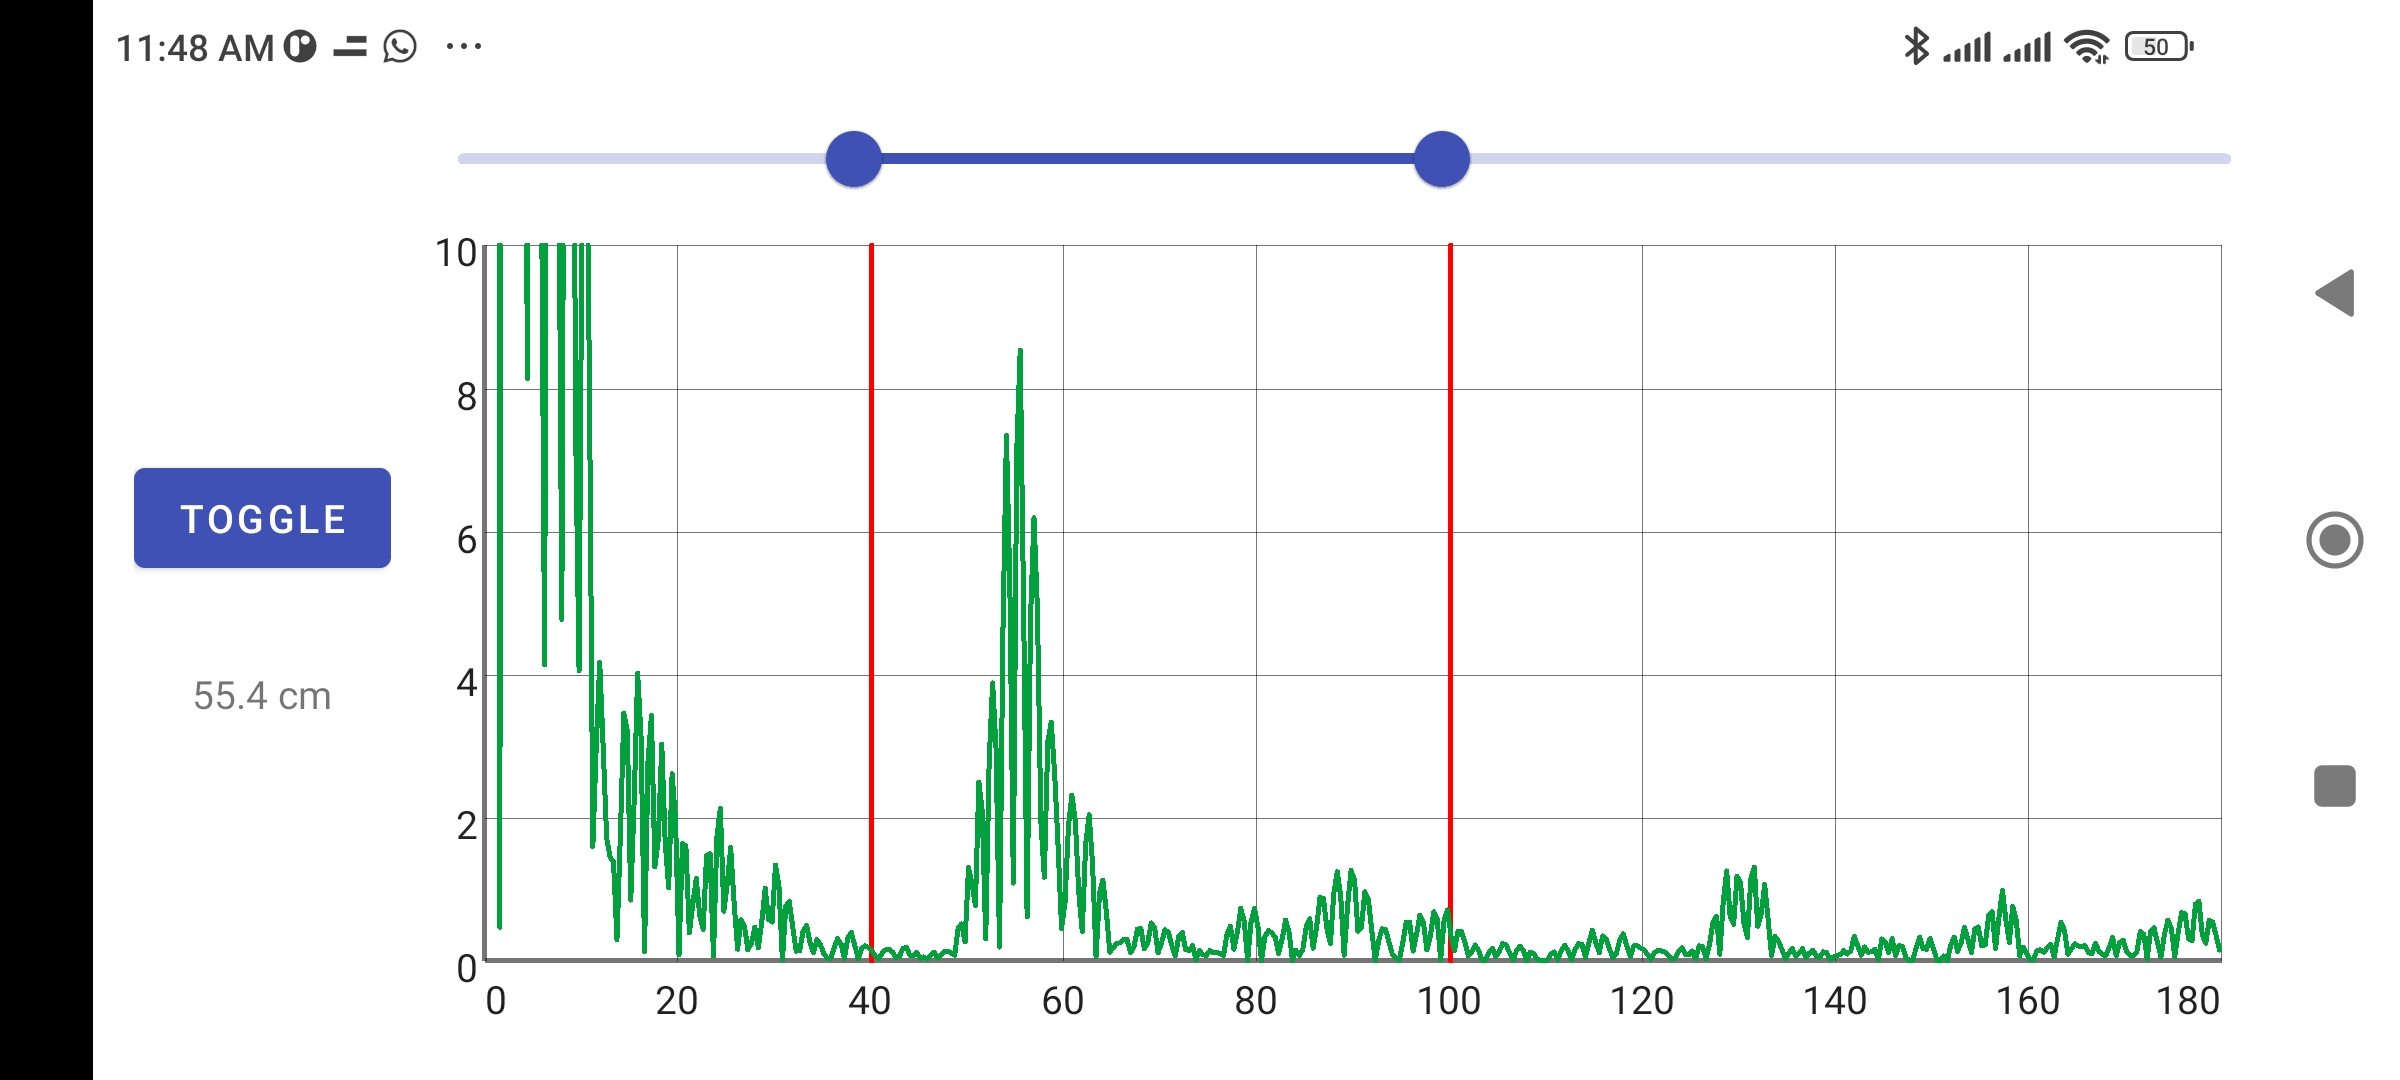
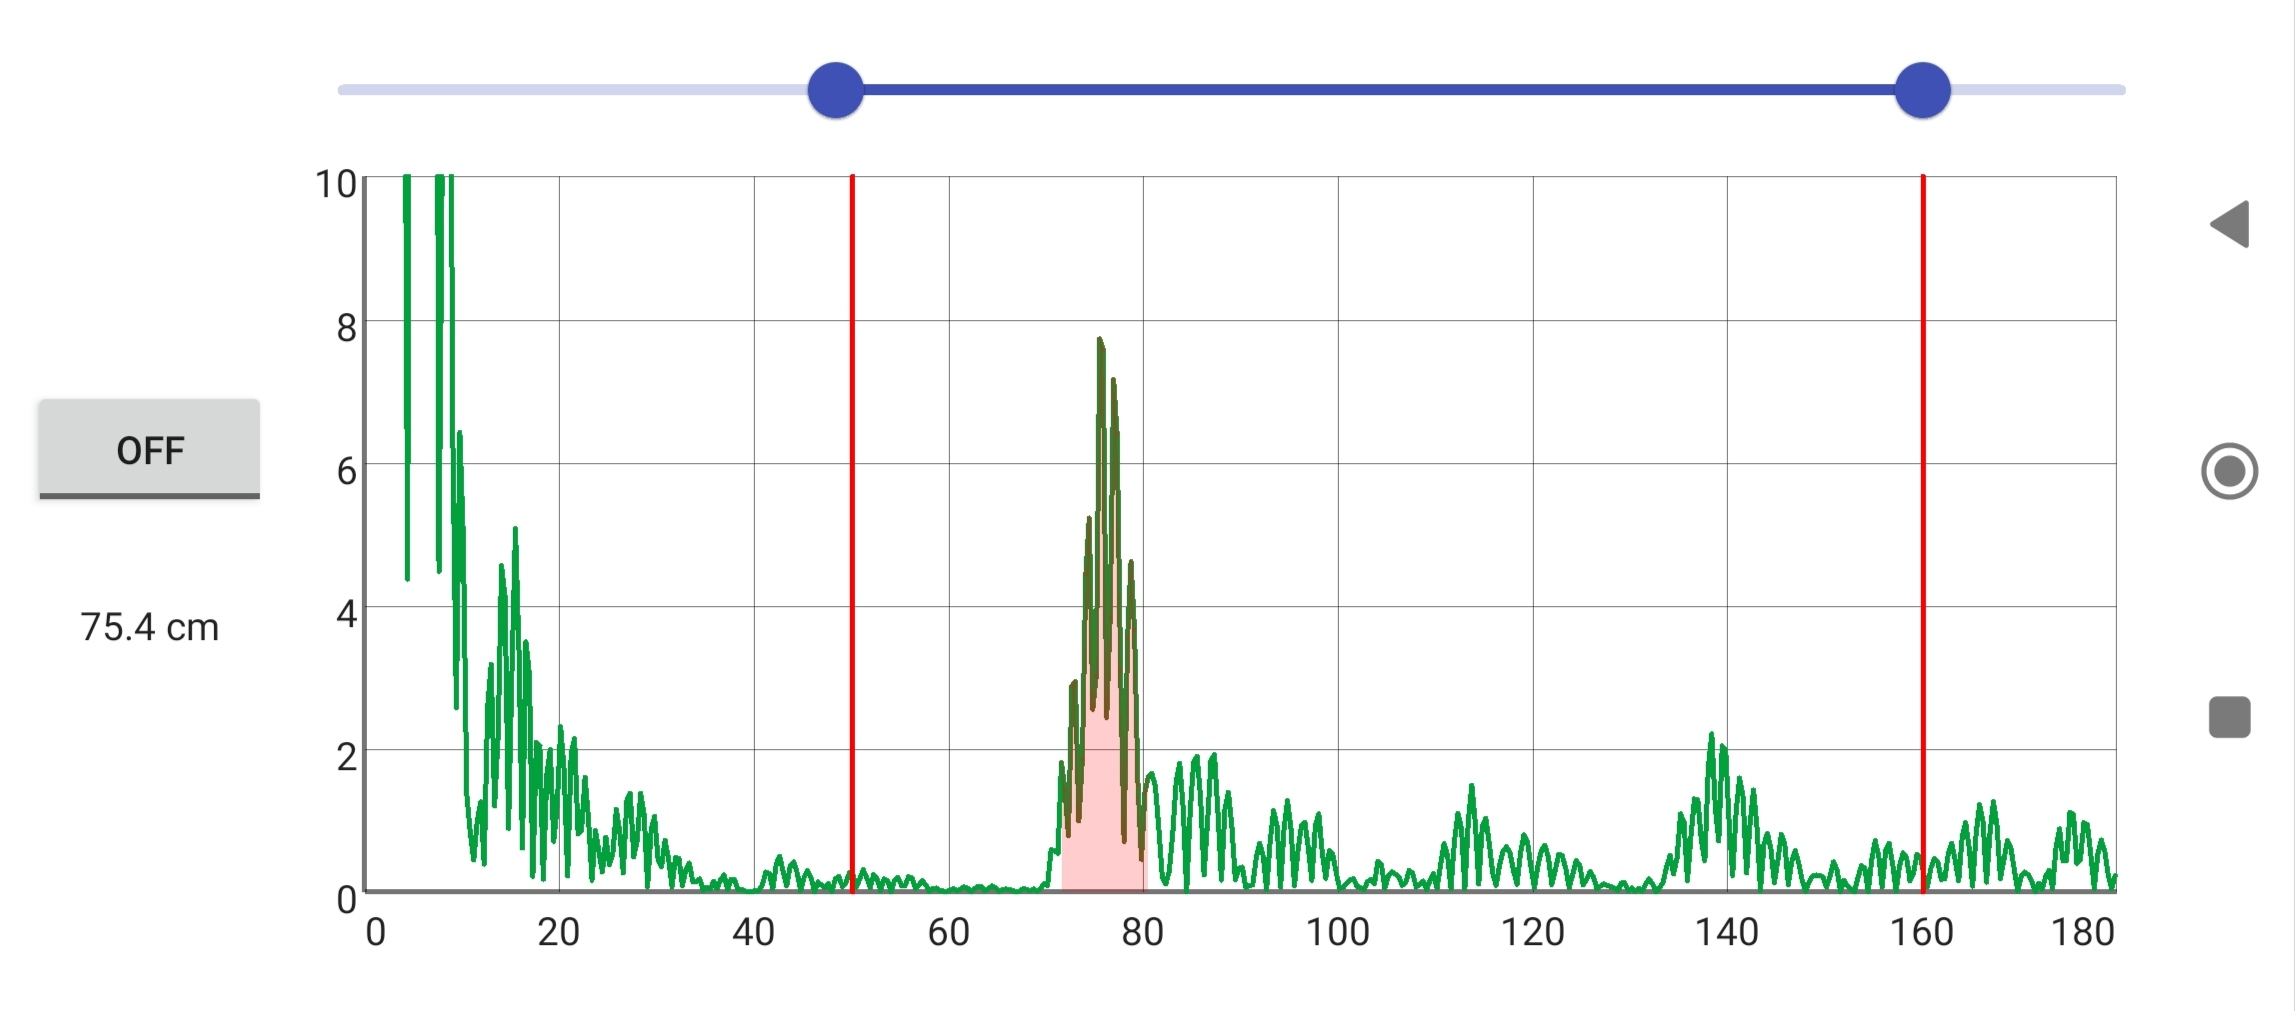
Update demo.jpg + minor changes

diff --git a/app/src/main/java/com/example/sonar10/MainActivity.java b/app/src/main/java/com/example/sonar10/MainActivity.java
@@ -7,6 +7,7 @@ import android.os.Bundle;
 
 import androidx.annotation.NonNull;
 import androidx.appcompat.app.AppCompatActivity;
+import androidx.appcompat.widget.AppCompatToggleButton;
 import androidx.core.app.ActivityCompat;
 import androidx.core.content.ContextCompat;
 
@@ -14,18 +15,23 @@ import android.os.Handler;
 import android.util.Log;
 import android.view.View;
 import android.widget.Button;
+import android.widget.CompoundButton;
 import android.widget.TextView;
 import android.widget.Toast;
+import android.widget.ToggleButton;
 
 import com.google.android.material.slider.RangeSlider;
 import com.jjoe64.graphview.GraphView;
+import com.jjoe64.graphview.series.BaseSeries;
 import com.jjoe64.graphview.series.DataPoint;
 import com.jjoe64.graphview.series.LineGraphSeries;
+import com.jjoe64.graphview.series.Series;
 
 import org.apache.commons.lang3.tuple.ImmutablePair;
 import org.apache.commons.math3.stat.StatUtils;
 
 import java.util.ArrayList;
+import java.util.Arrays;
 import java.util.List;
 import java.util.Locale;
 import java.util.concurrent.locks.Lock;
@@ -42,18 +48,23 @@ public class MainActivity extends AppCompatActivity {
     private final LineGraphSeries<DataPoint> mSeries = new LineGraphSeries<>();
     private final LineGraphSeries<DataPoint> mThumbSeries1 = new LineGraphSeries<>();
     private final LineGraphSeries<DataPoint> mThumbSeries2 = new LineGraphSeries<>();
+    private final LineGraphSeries<DataPoint> mAreaSeries = new LineGraphSeries<>();
     private final Lock mLock = new ReentrantLock();
     private final Handler mHandler = new Handler();
     private boolean mShouldRepeat = false;
     private RangeSlider mSlider;
     private TextView mDistanceView;
-    private Button mToggleButton;
     private DataPoint[] mDataPoints;
 
     {
         mSeries.setColor(Color.rgb(3, 160, 62));
         mThumbSeries1.setColor(Color.RED);
         mThumbSeries2.setColor(Color.RED);
+
+        int color = Color.argb(50, 255, 0, 0);
+        mAreaSeries.setColor(color);
+        mAreaSeries.setDrawBackground(true);
+        mAreaSeries.setBackgroundColor(color);
     }
 
     private ImmutablePair<Integer, Integer> findPeak(double[] data) {
@@ -124,18 +135,20 @@ public class MainActivity extends AppCompatActivity {
         graph.addSeries(mSeries);
         graph.addSeries(mThumbSeries1);
         graph.addSeries(mThumbSeries2);
+        graph.addSeries(mAreaSeries);
 
         mDistanceView = findViewById(R.id.distanceView);
         mSlider = findViewById(R.id.slider);
 
-        mToggleButton = findViewById(R.id.toggleButton);
-        mToggleButton.setOnClickListener(this::onClickToggle);
+        ToggleButton toggleButton = findViewById(R.id.toggleButton);
+        toggleButton.setOnCheckedChangeListener(this::onClickToggle);
     }
 
     @Override
     public void onRequestPermissionsResult(int requestCode,
                                            @NonNull String[] permissions,
                                            @NonNull int[] grantResults) {
+        super.onRequestPermissionsResult(requestCode, permissions, grantResults);
         if (requestCode != 1)
             return;
         if (grantResults.length == 0 || grantResults[0] != PackageManager.PERMISSION_GRANTED) {
@@ -156,14 +169,13 @@ public class MainActivity extends AppCompatActivity {
         super.onPause();
     }
 
-    public void onClickToggle(View view) {
-        mShouldRepeat = !mShouldRepeat;
-        if (mShouldRepeat) {
-            mToggleButton.setText(R.string.toggle_button_text_stop);
+    private void onClickToggle(CompoundButton compoundButton, boolean isChecked) {
+        if (isChecked) {
+            mShouldRepeat = true;
             new Thread(this::measure).start();
         }
         else
-            mToggleButton.setText(R.string.toggle_button_text_start);
+            mShouldRepeat = false;
     }
 
     public void updateGraph() {
@@ -208,15 +220,55 @@ public class MainActivity extends AppCompatActivity {
             mLock.lock();
             mDataPoints = new DataPoint[MAX_X_SAMPLES];
             populateSeries(data, mDataPoints, distances, values);
-            mLock.unlock();
 
             int peakIdx = IntStream.range(0, values.size())
                     .reduce((i, j) -> values.get(i) > values.get(j) ? i : j)
                     .orElse(-1);
-            if (peakIdx == -1)
+            if (peakIdx == -1) {
+                mLock.unlock();
                 continue;
+            }
 
-            double peakDist = values.get(peakIdx) > 0.5 ? distances.get(peakIdx) : Double.NaN;
+            if (values.get(peakIdx) > 1) {
+                double thresh = .33;
+                int sIdx;
+                for (sIdx = peakIdx - 1; sIdx > 0; sIdx--) {
+                    if (values.get(sIdx) >= values.get(sIdx - 1) &&
+                            values.get(sIdx) >= values.get(sIdx + 1) &&
+                            values.get(sIdx) < thresh * values.get(peakIdx)) {
+                        break;
+                    }
+                }
+                sIdx = Math.max(sIdx, 0);
+                sIdx = Math.min(sIdx, values.size() - 1);
+
+                int eIdx;
+                for (eIdx = peakIdx + 1; eIdx < values.size() - 1; eIdx++) {
+                    if (values.get(eIdx) >= values.get(eIdx - 1) &&
+                            values.get(eIdx) >= values.get(eIdx + 1) &&
+                            values.get(eIdx) < thresh * values.get(peakIdx)) {
+                        break;
+                    }
+                }
+                eIdx = Math.max(eIdx, 0);
+                eIdx = Math.min(eIdx, values.size() - 1);
+
+//                DataPoint[] dataPoints = {
+//                        new DataPoint(distances.get(sIdx), values.get(peakIdx)),
+//                        new DataPoint(distances.get(eIdx), values.get(peakIdx))};
+                DataPoint[] dataPoints = new DataPoint[eIdx - sIdx];
+                for (int i = 0; i < dataPoints.length; i++) {
+                    dataPoints[i] = new DataPoint(distances.get(sIdx + i), values.get(sIdx + i));
+                }
+                mAreaSeries.resetData(dataPoints);
+            }
+            else {
+                mAreaSeries.resetData(new DataPoint[]{});
+            }
+
+            mLock.unlock();
+
+            double peakDist = values.get(peakIdx) > 1 ? distances.get(peakIdx) : Double.NaN;
             String text = String.format(Locale.ENGLISH, "%.1f cm", peakDist);
             runOnUiThread(() -> mDistanceView.setText(text));
         }

diff --git a/app/src/main/java/com/example/sonar10/Pulse.java b/app/src/main/java/com/example/sonar10/Pulse.java
@@ -13,11 +13,16 @@ abstract class Pulse {
     }
     abstract double[] getDoubles();
 
-    public short[] getShorts() {
+    public short[] getShorts(boolean stereo) {
         double[] doubles = this.getDoubles();
-        short[] res = new short[size()];
+        short[] res = new short[stereo ? 2*size() : size()];
         for (int i = 0; i < size(); i++) {
-            res[i] = (short) Math.round(Short.MAX_VALUE * doubles[i]);
+            if (stereo) {
+                res[2*i] = 0;
+                res[2*i+1] = (short) Math.round(Short.MAX_VALUE * doubles[i]);
+            }
+            else
+                res[i] = (short) Math.round(Short.MAX_VALUE * doubles[i]);
         }
         return res;
     }
@@ -30,16 +35,11 @@ class LinearChirp extends Pulse {
         LENGTH = 4000;
     }
 
-    @Override
     public double[] getDoubles() {
-        return getDoubles(1);
-    }
-
-    public double[] getDoubles(int factor) {
         final double sweepRate = (double) (FINAL_FREQ - INITIAL_FREQ) / duration();
-        double[] res = new double[factor * size()];
+        double[] res = new double[size()];
         for (int i = 0; i < res.length; i++) {
-            double t = (double) i / (factor * SAMPLE_RATE);
+            double t = (double) i / (SAMPLE_RATE);
             double phase = 2.*Math.PI * (.5*sweepRate*t*t + INITIAL_FREQ*t);
             double amp = Math.pow(Math.sin(Math.PI*i/(res.length-1)), 2); // Hann window
             res[i] = amp * Math.sin(phase);

diff --git a/app/src/main/java/com/example/sonar10/ToneRecorder.java b/app/src/main/java/com/example/sonar10/ToneRecorder.java
@@ -1,5 +1,6 @@
 package com.example.sonar10;
 
+import android.annotation.SuppressLint;
 import android.media.AudioFormat;
 import android.media.AudioRecord;
 import android.media.AudioTimestamp;
@@ -12,19 +13,20 @@ public class ToneRecorder {
     private static final String TAG = "ToneRecorder";
     private final int duration = 32768;//65536;//16384;
     static final int DELAY = 8000;
-    private static final int SAMPLE_RATE = Pulse.SAMPLE_RATE;
     private final short[] buffer = new short[DELAY+duration];
+    private static final int CHANNEL = AudioFormat.CHANNEL_IN_MONO;
+    @SuppressLint("MissingPermission")
     private final AudioRecord recorder = new AudioRecord(
             MediaRecorder.AudioSource.MIC,
             Pulse.SAMPLE_RATE,
-            AudioFormat.CHANNEL_IN_MONO,
+            CHANNEL,
             AudioFormat.ENCODING_PCM_16BIT,
             2*buffer.length);
 
     static {
         Log.i(TAG, "minBufferSize: " + AudioRecord.getMinBufferSize(
                 Pulse.SAMPLE_RATE,
-                AudioFormat.CHANNEL_IN_MONO,
+                CHANNEL,
                 AudioFormat.ENCODING_PCM_16BIT));
     }
 

diff --git a/app/src/main/java/com/example/sonar10/ToneGenerator.java b/app/src/main/java/com/example/sonar10/ToneGenerator.java
@@ -8,14 +8,20 @@ import android.util.Log;
 
 public class ToneGenerator {
     private static final String TAG = "ToneGenerator";
+    private static final int CHANNEL = AudioFormat.CHANNEL_OUT_STEREO;
 
     static void playSound(Pulse pulse){
+        int bufSizeShorts = 2*pulse.size();
         final AudioTrack audioTrack = new AudioTrack(AudioManager.STREAM_MUSIC,
-                Pulse.SAMPLE_RATE, AudioFormat.CHANNEL_OUT_MONO,
-                AudioFormat.ENCODING_PCM_16BIT, 2*pulse.size(),
+                Pulse.SAMPLE_RATE, CHANNEL,
+                AudioFormat.ENCODING_PCM_16BIT,
+                2*bufSizeShorts,
                 AudioTrack.MODE_STATIC);
         audioTrack.setVolume(AudioTrack.getMaxVolume());
-        audioTrack.write(pulse.getShorts(), 0, pulse.size());
+        audioTrack.write(
+                pulse.getShorts(CHANNEL == AudioFormat.CHANNEL_OUT_STEREO),
+                0,
+                bufSizeShorts);
         audioTrack.play();
         try {
             Thread.sleep((int)(1000*pulse.duration()));
